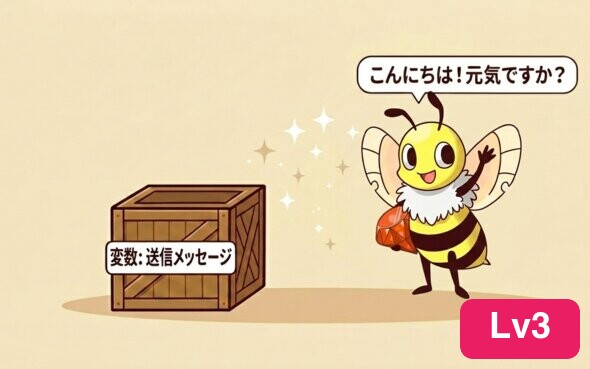
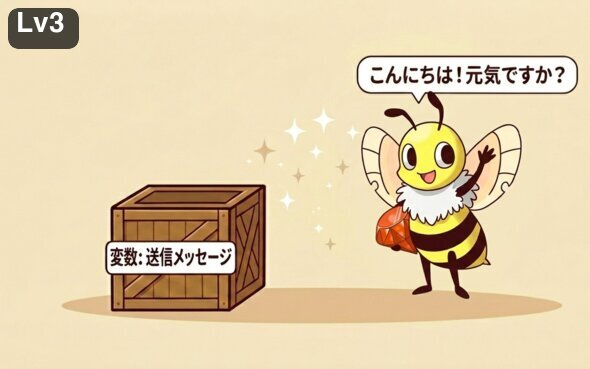
fix: apply review feedback for chat-1-basic-2 and chat-1-basic-3 tutorials
- Move Lv2/Lv3 labels from bottom-right to top-left on thumbnails
- Add chat-2-sprites-1 to deckIds for chat-1-basic-1 and chat-1-basic-2
- Update chat-1-basic-3 step descriptions (step 3, 4, 6)
- Update locale files (en, ja, ja-Hira) accordingly

Changed region(s): [[0.7627, 0.8049, 1.0, 0.9837], [0.0, 0.0, 0.1525, 0.1491]]

diff --git a/packages/scratch-gui/src/lib/libraries/decks/index.jsx b/packages/scratch-gui/src/lib/libraries/decks/index.jsx
@@ -216,7 +216,8 @@ end`,
             },
             {
                 deckIds: [
-                    'chat-1-basic-2'
+                    'chat-1-basic-2',
+                    'chat-2-sprites-1'
                 ]
             }
         ],
@@ -326,7 +327,8 @@ end`,
             },
             {
                 deckIds: [
-                    'chat-1-basic-3'
+                    'chat-1-basic-3',
+                    'chat-2-sprites-1'
                 ]
             }
         ],
@@ -380,7 +382,7 @@ end`,
             {
                 title: (
                     <FormattedMessage
-                        defaultMessage="ベースのコードを「プログラムを入力」で入力しよう"
+                        defaultMessage="お手本を「ルビーを入力する」を押して入力しよう"
                         description="Chat1 Basic3 Step 3: Insert base code"
                         id="gui.howtos.chat-1-basic-3.step3.title"
                     />
@@ -399,7 +401,7 @@ end`,
             {
                 title: (
                     <FormattedMessage
-                        defaultMessage="★ $送信メッセージ = &quot;こんにちは！元気ですか？&quot; を手で入力しよう — $で始まる変数は全体で使えるよ"
+                        defaultMessage="★ 2行目に $送信メッセージ = &quot;こんにちは！元気ですか？&quot; を入力しよう — $で始まる変数は全体で使えるよ"
                         description="Chat1 Basic3 Step 4: Type variable assignment - key concept"
                         id="gui.howtos.chat-1-basic-3.step4.title"
                     />
@@ -421,8 +423,8 @@ end`,
             {
                 title: (
                     <FormattedMessage
-                        defaultMessage="ブロックタブに戻して{greenFlag}を押して実行しよう！"
-                        description="Chat1 Basic3 Step 6: Switch to blocks tab and run"
+                        defaultMessage="{greenFlag}を押して実行しよう！"
+                        description="Chat1 Basic3 Step 6: Run the program"
                         id="gui.howtos.chat-1-basic-3.step6.title"
                         values={{greenFlag: <GreenFlagIcon />}}
                     />

diff --git a/packages/scratch-gui/src/locales/ja-Hira.js b/packages/scratch-gui/src/locales/ja-Hira.js
@@ -372,10 +372,10 @@ export default {
     'gui.howtos.chat-1-basic-3.name': 'メッセージをおくってみよう！Lv3',
     'gui.howtos.chat-1-basic-3.step1.title': 'こんどはRubyでおなじプログラムをつくろう！',
     'gui.howtos.chat-1-basic-3.step2.title': 'ルビータブにきりかえよう',
-    'gui.howtos.chat-1-basic-3.step3.title': 'ベースのコードを「プログラムをにゅうりょく」でにゅうりょくしよう',
-    'gui.howtos.chat-1-basic-3.step4.title': '★ $そうしんメッセージ = "こんにちは！げんきですか？" をてでにゅうりょくしよう — $ではじまるへんすうはぜんたいでつかえるよ',
+    'gui.howtos.chat-1-basic-3.step3.title': 'おてほんを「ルビーをにゅうりょくする」をおしてにゅうりょくしよう',
+    'gui.howtos.chat-1-basic-3.step4.title': '★ 2ぎょうめに $そうしんメッセージ = "こんにちは！げんきですか？" をにゅうりょくしよう — $ではじまるへんすうはぜんたいでつかえるよ',
     'gui.howtos.chat-1-basic-3.step5.title': '★ say("ここをかえるよ") を say($そうしんメッセージ) にかえよう — へんすうであたいをわたすよ',
-    'gui.howtos.chat-1-basic-3.step6.title': 'ブロックタブにもどして{greenFlag}をおしてじっこうしよう！',
+    'gui.howtos.chat-1-basic-3.step6.title': '{greenFlag}をおしてじっこうしよう！',
     'gui.howtos.chat-1-basic-3.step7.title': 'だいじなこと：Rubyでも「おくる」「うけとったとき」「へんすう」はおなじかんがえかた',
     // Chat Tutorial 2 Sprites 1
     'gui.howtos.chat-2-sprites-1.name': 'ネコとペンギンでかいわしよう',

diff --git a/packages/scratch-gui/src/locales/ja.js b/packages/scratch-gui/src/locales/ja.js
@@ -376,10 +376,10 @@ export default {
     'gui.howtos.chat-1-basic-3.name': 'メッセージを送ってみよう！Lv3',
     'gui.howtos.chat-1-basic-3.step1.title': '今度はRubyで同じプログラムを作ろう！',
     'gui.howtos.chat-1-basic-3.step2.title': 'ルビータブに切り替えよう',
-    'gui.howtos.chat-1-basic-3.step3.title': 'ベースのコードを「プログラムを入力」で入力しよう',
-    'gui.howtos.chat-1-basic-3.step4.title': '★ $送信メッセージ = "こんにちは！元気ですか？" を手で入力しよう — $で始まる変数は全体で使えるよ',
+    'gui.howtos.chat-1-basic-3.step3.title': 'お手本を「ルビーを入力する」を押して入力しよう',
+    'gui.howtos.chat-1-basic-3.step4.title': '★ 2行目に $送信メッセージ = "こんにちは！元気ですか？" を入力しよう — $で始まる変数は全体で使えるよ',
     'gui.howtos.chat-1-basic-3.step5.title': '★ say("ここを変えるよ") を say($送信メッセージ) に変えよう — 変数で値を渡すよ',
-    'gui.howtos.chat-1-basic-3.step6.title': 'ブロックタブに戻して{greenFlag}を押して実行しよう！',
+    'gui.howtos.chat-1-basic-3.step6.title': '{greenFlag}を押して実行しよう！',
     'gui.howtos.chat-1-basic-3.step7.title': '大事なこと：Rubyでも「送る」「受け取ったとき」「変数」は同じ考え方',
     // Chat Tutorial 2 Sprites 1
     'gui.howtos.chat-2-sprites-1.name': 'ネコとペンギンで会話しよう',

diff --git a/packages/scratch-gui/src/locales/en.js b/packages/scratch-gui/src/locales/en.js
@@ -304,10 +304,10 @@ export default {
     'gui.howtos.chat-1-basic-3.name': "Let's Send a Message! Lv3",
     'gui.howtos.chat-1-basic-3.step1.title': "Now let's build the same program in Ruby!",
     'gui.howtos.chat-1-basic-3.step2.title': 'Switch to the Ruby tab',
-    'gui.howtos.chat-1-basic-3.step3.title': 'Insert the base code using "Insert Program"',
-    'gui.howtos.chat-1-basic-3.step4.title': '★ Type $send_message = "Hello! How are you?" — variables starting with $ are global',
+    'gui.howtos.chat-1-basic-3.step3.title': 'Insert the example code by pressing "Insert Ruby"',
+    'gui.howtos.chat-1-basic-3.step4.title': '★ Type $send_message = "Hello! How are you?" on line 2 — variables starting with $ are global',
     'gui.howtos.chat-1-basic-3.step5.title': '★ Change say("change this") to say($send_message) — pass values with variables',
-    'gui.howtos.chat-1-basic-3.step6.title': 'Switch back to blocks tab and click {greenFlag} to run!',
+    'gui.howtos.chat-1-basic-3.step6.title': 'Click {greenFlag} to run!',
     'gui.howtos.chat-1-basic-3.step7.title': 'Key concept: "broadcast", "when received", and "variables" work the same way in Ruby',
     // Chat Tutorial 2 Sprites 1
     'gui.howtos.chat-2-sprites-1.name': "Let's Chat with Cat and Penguin!",
